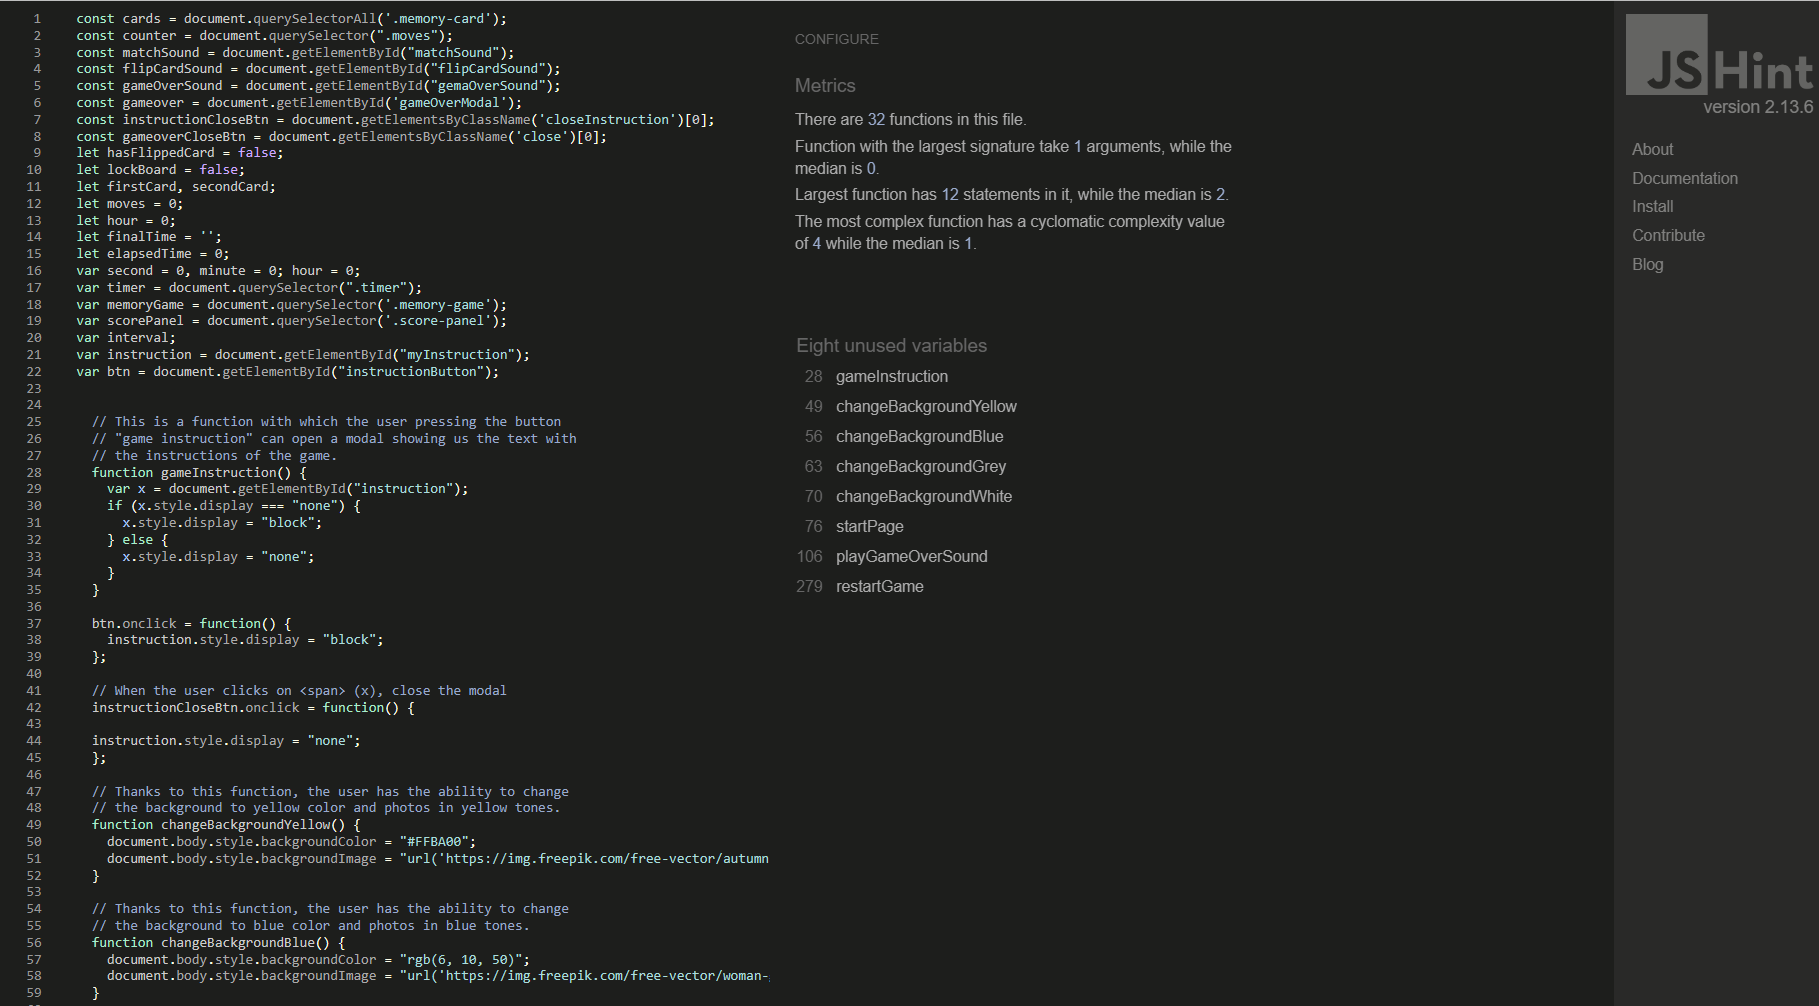
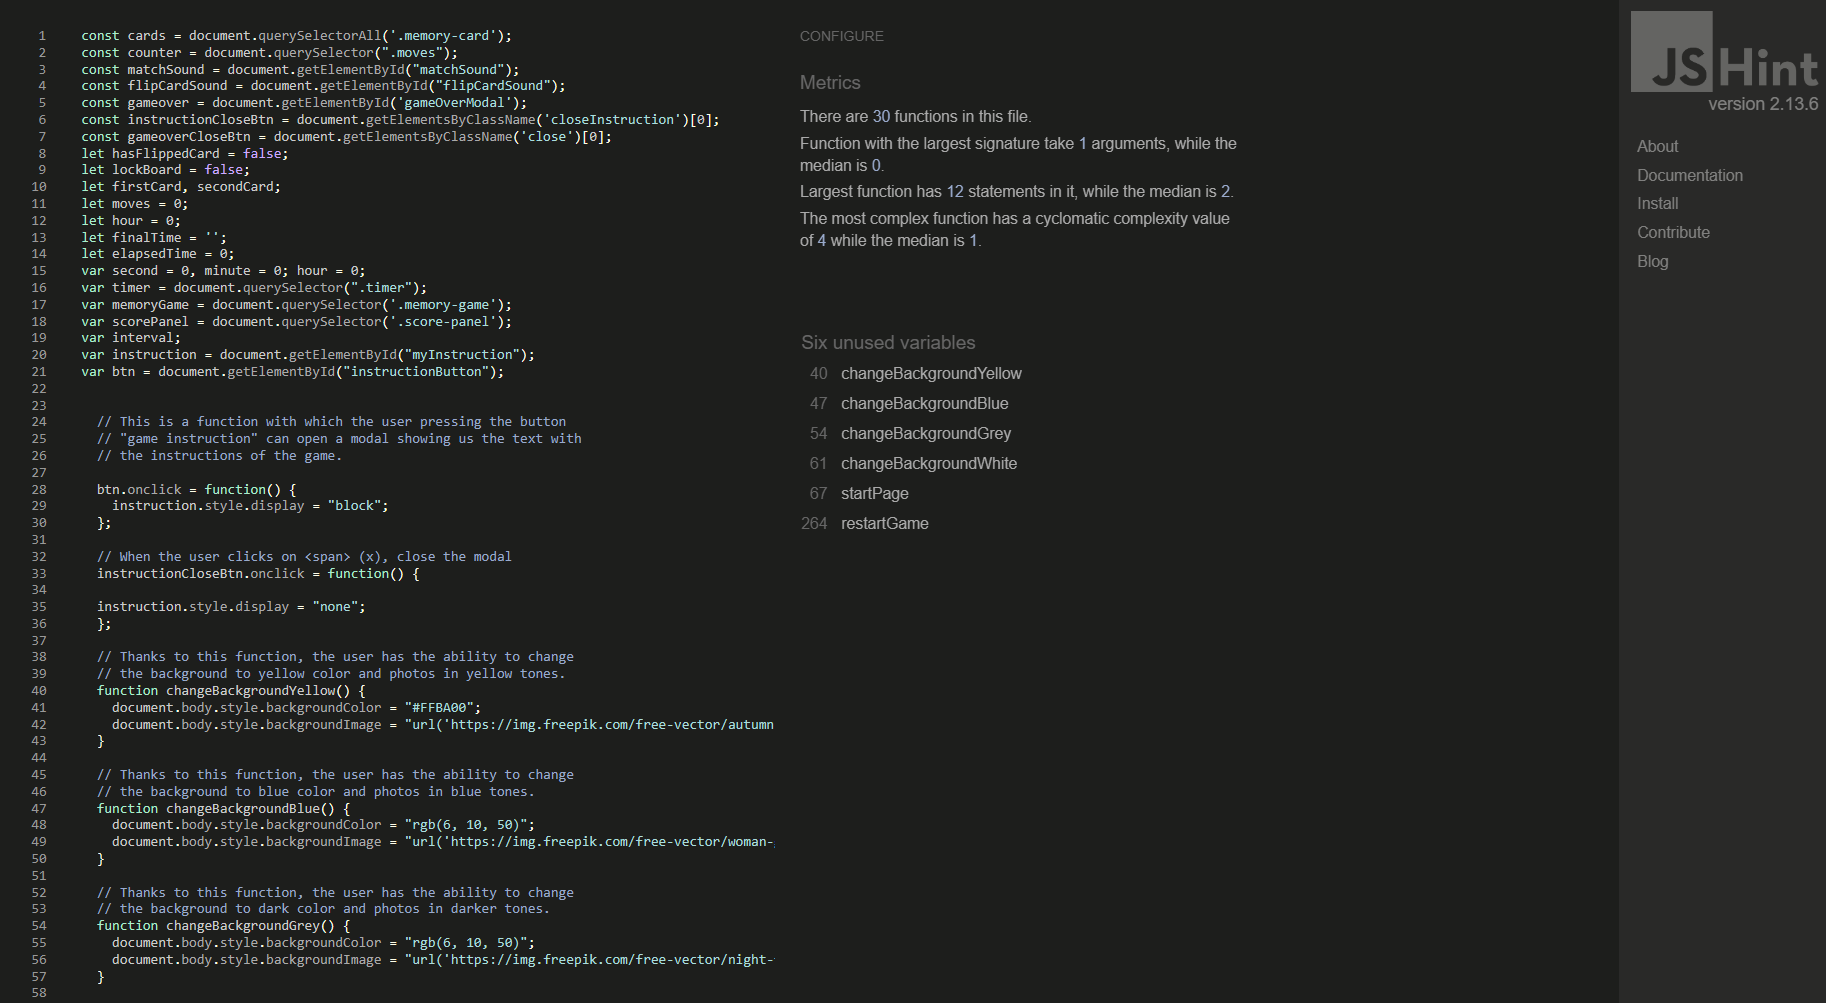
Updated javascript file after testing on validator, add a description to that on TESTING.md

diff --git a/assets/js/script.js b/assets/js/script.js
@@ -2,7 +2,6 @@ const cards = document.querySelectorAll('.memory-card');
 const counter = document.querySelector(".moves");
 const matchSound = document.getElementById("matchSound");
 const flipCardSound = document.getElementById("flipCardSound");
-const gameOverSound = document.getElementById("gemaOverSound");
 const gameover = document.getElementById('gameOverModal');
 const instructionCloseBtn = document.getElementsByClassName('closeInstruction')[0];
 const gameoverCloseBtn = document.getElementsByClassName('close')[0];
@@ -25,14 +24,6 @@ var btn = document.getElementById("instructionButton");
   // This is a function with which the user pressing the button
   // "game instruction" can open a modal showing us the text with
   // the instructions of the game.
-  function gameInstruction() {
-    var x = document.getElementById("instruction");
-    if (x.style.display === "none") {
-      x.style.display = "block";
-    } else {
-      x.style.display = "none";
-    }
-  }
 
   btn.onclick = function() {
     instruction.style.display = "block";
@@ -99,13 +90,6 @@ var btn = document.getElementById("instructionButton");
   function playFlipCardSound() {
     flipCardSound.currentTime = 0;
     flipCardSound.play();
-  }
-
-  // Thanks to this function, after the end of the game,
-  // the user should hear a sound.
-  function playGameOverSound () {
-    gameOverSound.currentTime = 0;
-    gameOverSound.play();
   }
 
   // This function was borrowed from this site:

diff --git a/TESTING.md b/TESTING.md
@@ -22,6 +22,7 @@
 
 - [Javascript Validator](https://jshint.com/)
     - ![JS Validator](assets/images/validator_jshint.png)
+    The reason for the unused variables: "changeBackgroundYellow", "changeBackgroundBlue", "changeBackgroundGrey", "changeBackgroundWhite", "startPage" and "restartGame"  message is that the functions are declared in HTML file.
 
 
 
